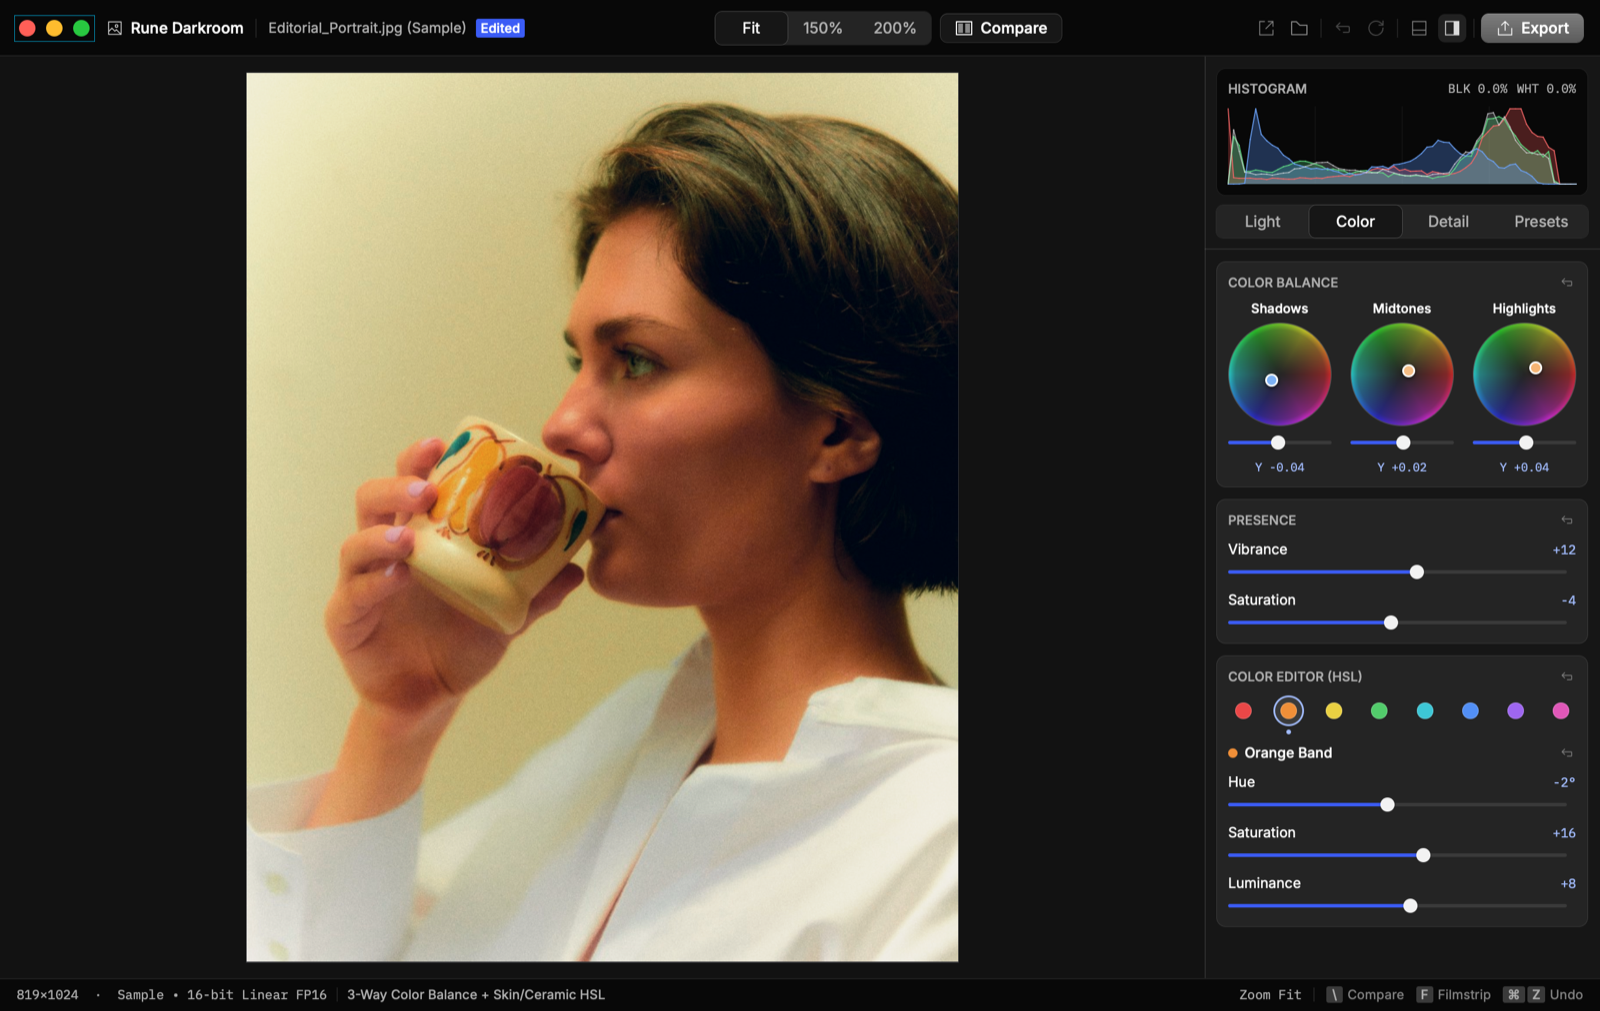
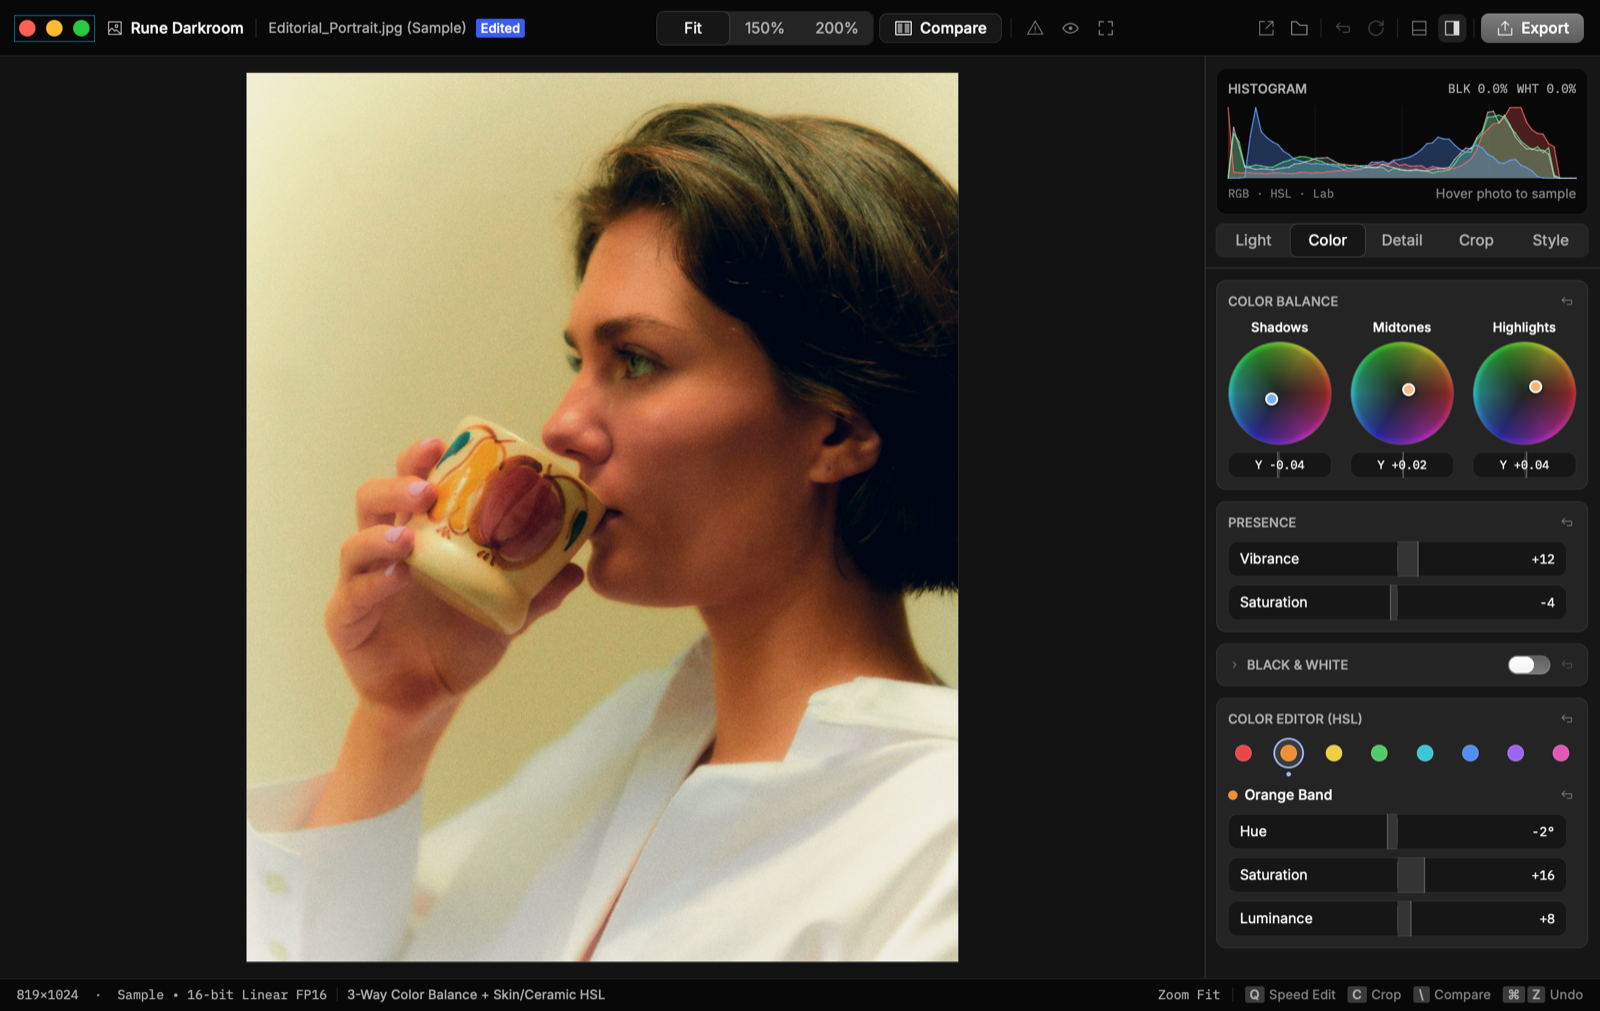
style(ui): replace inspector sliders with monochrome Scrubbable Capsule controls

diff --git a/crates/app/src/widgets.rs b/crates/app/src/widgets.rs
@@ -2,7 +2,8 @@
 //! centralized Anomaly OpenCode tokens (`crate::tokens`).
 
 use rune::{
-    Color, Cursor, Drag, El, LineCap, Phase, ScrollSpec, Shape, Tx, col, el, icon, row, text,
+    Color, Cursor, Drag, El, Key, KeyEvent, LineCap, Phase, ScrollSpec, Shape, Tx, col, el, icon,
+    row, text,
 };
 use rune_editor_core::{
     BlackAndWhiteParams, ColorWheel, CompositionGrid, CropAspect, DevelopRecipe, HISTOGRAM_BINS,
@@ -10,7 +11,7 @@ use rune_editor_core::{
 };
 use rune_kit::{
     Button, ButtonVariant, ControlSize, IconButton, IconButtonVariant, Kit, SegmentedControl,
-    Slider, Switch,
+    Switch,
 };
 use rune_theme_opencode::icons;
 
@@ -318,7 +319,165 @@ fn mini_auto_btn(
         .on_press_tx(on_press)
 }
 
-/// Unified OpenCode photographic slider with click-to-reset label and tabular mono readout.
+/// Maps a normalized `[0, 1]` scrub position into `min..=max` with a subtle
+/// magnetic zero detent around `reset_val` for effortless neutral resets.
+#[inline]
+fn capsule_value_from_norm(norm: f32, min: f32, max: f32, reset_val: f32) -> f32 {
+    let span = max - min;
+    if !span.is_finite() || span <= 0.0 {
+        return min;
+    }
+    let n = norm.clamp(0.0, 1.0);
+    let reset_norm = ((reset_val - min) / span).clamp(0.0, 1.0);
+    if reset_norm > 0.02 && reset_norm < 0.98 && (n - reset_norm).abs() < 0.016 {
+        return reset_val;
+    }
+    (min + n * span).clamp(min, max)
+}
+
+/// Core token-driven monochrome Scrubbable Capsule slider (no protruding knob;
+/// entire row is horizontally scrubbable, double-click resets to `reset_val`).
+#[allow(clippy::too_many_arguments)]
+fn capsule_slider_el(
+    k: &Kit,
+    key: String,
+    a11y_label: String,
+    height: f32,
+    width: f32,
+    value: f32,
+    range: std::ops::RangeInclusive<f32>,
+    value_fmt: String,
+    reset_val: f32,
+    content_row: El,
+    refresh_histogram: bool,
+    setter: impl Fn(&mut DevelopRecipe, f32) + Copy + 'static,
+) -> El {
+    let min = *range.start();
+    let max = *range.end();
+    let span = (max - min).max(1e-6);
+    let norm = ((value - min) / span).clamp(0.0, 1.0);
+    let reset_norm = ((reset_val - min) / span).clamp(0.0, 1.0);
+    let bipolar = reset_norm > 0.02 && reset_norm < 0.98;
+    let modified = (value - reset_val).abs() > (span * 0.0025);
+
+    // Bipolar sliders grow strictly from center `reset_norm` (clean empty capsule at 0);
+    // unipolar sliders grow cleanly from the left edge (`0.0`).
+    let origin_norm = if bipolar { reset_norm } else { 0.0 };
+    let fill_left = norm.min(origin_norm) * width;
+    let fill_w = ((norm - origin_norm).abs() * width).max(0.0);
+    let edge_x = (norm * width - size::CAPSULE_EDGE_W * 0.5)
+        .clamp(0.0, (width - size::CAPSULE_EDGE_W).max(0.0));
+    let kbd_step = (f64::from(span) / 40.0).max(1e-4);
+
+    let mut capsule = el()
+        .key(key)
+        .role("slider")
+        .label(a11y_label)
+        .help("Drag horizontally to adjust • Double-click to reset")
+        .range_value(f64::from(value), f64::from(min), f64::from(max))
+        .range_step(kbd_step)
+        .a11y_value(value_fmt)
+        .focusable(true)
+        .focus_ring(
+            border::FOCUS_RING,
+            border::FOCUS_OFFSET_TIGHT,
+            k.c.border_focus,
+        )
+        .cursor(Cursor::ResizeColumn)
+        .w(width)
+        .h(height)
+        .radius(k.radius.lg)
+        .fill(color::capsule_bg(k))
+        .hover(color::capsule_hover(k))
+        .border(border::HAIRLINE, k.c.border_base)
+        .clip_rounded(k.radius.lg);
+
+    // Subtle vertical center detent tick for bipolar sliders.
+    if bipolar {
+        let center_x = (reset_norm * width - size::CAPSULE_ZERO_TICK_W * 0.5).max(0.0);
+        capsule = capsule.child(
+            el().absolute(center_x, space::XS)
+                .size(size::CAPSULE_ZERO_TICK_W, (height - space::MD).max(2.0))
+                .fill(color::capsule_zero_tick(k))
+                .a11y_hidden(),
+        );
+    }
+
+    // Internal monochrome fill bar + crisp leading edge highlight when non-empty.
+    if fill_w >= 0.75 && (bipolar || modified) {
+        capsule = capsule
+            .child(
+                el().absolute(fill_left, 0.0)
+                    .size(fill_w, height)
+                    .fill(color::capsule_fill(k))
+                    .a11y_hidden(),
+            )
+            .child(
+                el().absolute(edge_x, 0.0)
+                    .size(size::CAPSULE_EDGE_W, height)
+                    .fill(color::capsule_edge(k))
+                    .a11y_hidden(),
+            );
+    }
+
+    let apply = move |s: &mut AppState, tx: &mut Tx, v: f32, done: bool| {
+        if refresh_histogram {
+            s.update_slider_tx(done, tx, |r| setter(r, v));
+        } else {
+            s.update_geometry_slider_tx(done, tx, |r| setter(r, v));
+        }
+    };
+
+    capsule
+        .child(content_row)
+        .on_drag(move |s: &mut AppState, d: &mut Drag, tx: &mut Tx| {
+            // Native AppKit double-click resets cleanly to default value.
+            if d.clicks >= 2 {
+                if d.phase == Phase::Down {
+                    apply(s, tx, reset_val, true);
+                }
+                return;
+            }
+            let w = d.w.max(1.0);
+            let next = capsule_value_from_norm(d.x / w, min, max, reset_val);
+            match d.phase {
+                Phase::Down | Phase::Move => apply(s, tx, next, false),
+                Phase::Up => apply(s, tx, next, true),
+            }
+        })
+        .on_key(move |s: &mut AppState, ev: &KeyEvent, tx: &mut Tx| {
+            let step = if ev.mods.shift {
+                span * 0.1
+            } else {
+                span * 0.025
+            };
+            match &ev.key {
+                Key::Left | Key::Down => {
+                    apply(s, tx, (value - step).clamp(min, max), true);
+                    true
+                }
+                Key::Right | Key::Up => {
+                    apply(s, tx, (value + step).clamp(min, max), true);
+                    true
+                }
+                Key::Backspace | Key::Delete => {
+                    apply(s, tx, reset_val, true);
+                    true
+                }
+                Key::Home => {
+                    apply(s, tx, min, true);
+                    true
+                }
+                Key::End => {
+                    apply(s, tx, max, true);
+                    true
+                }
+                _ => false,
+            }
+        })
+}
+
+/// Unified OpenCode Scrubbable Capsule photographic slider with tabular mono readout.
 #[allow(clippy::too_many_arguments)]
 fn develop_slider_inner(
     k: &Kit,
@@ -335,7 +494,7 @@ fn develop_slider_inner(
     let key_str = key.into();
     let modified = (value - reset_val).abs() > 0.005;
 
-    let mut label_row = row().items_center().gap(space::TIGHT);
+    let mut label_row = row().items_center().gap(space::SM);
     if let Some(col_dot) = dot_color {
         label_row = label_row.child(
             el().size(size::CHANNEL_DOT, size::CHANNEL_DOT)
@@ -344,57 +503,39 @@ fn develop_slider_inner(
                 .a11y_hidden(),
         );
     }
-    label_row = label_row.child(text(label).font(ty::control_label(k)).color(k.c.text_base));
+    label_row = label_row.child(text(label).font(ty::control_label(k)).color(if modified {
+        k.c.text_base
+    } else {
+        k.c.text_muted
+    }));
 
-    let header = row()
+    let content_row = row()
         .w_full()
-        .justify_between()
+        .h_full()
+        .px(space::LG)
         .items_center()
-        .child(
-            el().role("button")
-                .label(format!("Reset {label}"))
-                .help(format!("Click to reset {label}"))
-                .focusable(true)
-                .focus_ring(border::FOCUS_RING, border::FOCUS_OFFSET, k.c.border_focus)
-                .radius(k.radius.xs)
-                .cursor(Cursor::Pointer)
-                .child(label_row)
-                .on_press_tx(move |s: &mut AppState, tx| {
-                    if refresh_histogram {
-                        s.update_slider_tx(true, tx, |r| setter(r, reset_val));
-                    } else {
-                        s.update_geometry_slider_tx(true, tx, |r| setter(r, reset_val));
-                    }
-                }),
-        )
+        .justify_between()
+        .child(label_row)
         .child(text(&value_fmt).font(ty::mono_value(k)).color(if modified {
-            k.c.text_accent
+            k.c.text_base
         } else {
             k.c.text_muted
         }));
 
-    let slider = Slider::new(format!("{key_str}-slider"), value)
-        .range(range)
-        .label(label)
-        .hide_label()
-        .value_text(value_fmt)
-        .control_size(ControlSize::Mini)
-        .width(size::CARD_INNER_W)
-        .on_change_tx(move |s: &mut AppState, v: f32, done: bool, tx| {
-            if refresh_histogram {
-                s.update_slider_tx(done, tx, |r| setter(r, v));
-            } else {
-                s.update_geometry_slider_tx(done, tx, |r| setter(r, v));
-            }
-        })
-        .build(k);
-
-    col()
-        .key(key_str)
-        .w_full()
-        .gap(space::XXS)
-        .child(header)
-        .child(slider)
+    capsule_slider_el(
+        k,
+        key_str,
+        label.to_owned(),
+        size::CAPSULE_SLIDER_H,
+        size::CARD_INNER_W,
+        value,
+        range,
+        value_fmt,
+        reset_val,
+        content_row,
+        refresh_histogram,
+        setter,
+    )
 }
 
 #[allow(clippy::too_many_arguments)]
@@ -994,27 +1135,39 @@ fn single_color_wheel(s: &AppState, k: &Kit, slot: WheelSlot) -> El {
             });
         });
 
-    let luma_slider = Slider::new(format!("{}-luma", slot.key()), wheel.luma)
-        .range(-1.0..=1.0)
-        .label(format!("{} luminance", slot.title()))
-        .hide_label()
-        .value_text(format!("{:+.2}", wheel.luma))
-        .control_size(ControlSize::Mini)
-        .width(diameter)
-        .on_change_tx(move |s: &mut AppState, v: f32, done: bool, tx| {
-            s.update_slider_tx(done, tx, |r| {
-                slot.get_mut(r).luma = v;
-            });
-        })
-        .build(k);
+    let luma_fmt = format!("Y {:+.2}", wheel.luma);
+    let luma_modified = wheel.luma.abs() > 0.005;
+    let luma_content =
+        row()
+            .w_full()
+            .h_full()
+            .center()
+            .child(
+                text(&luma_fmt)
+                    .font(ty::mono_micro(k))
+                    .color(if luma_modified {
+                        k.c.text_base
+                    } else {
+                        k.c.text_muted
+                    }),
+            );
 
-    let luma_readout = text(format!("Y {:+.2}", wheel.luma))
-        .font(ty::mono_micro(k))
-        .color(if wheel.luma.abs() > 0.005 {
-            k.c.text_accent
-        } else {
-            k.c.text_faint
-        });
+    let luma_slider = capsule_slider_el(
+        k,
+        format!("{}-luma", slot.key()),
+        format!("{} luminance", slot.title()),
+        size::MINI_CAPSULE_SLIDER_H,
+        diameter,
+        wheel.luma,
+        -1.0..=1.0,
+        luma_fmt,
+        0.0,
+        luma_content,
+        true,
+        move |r, v| {
+            slot.get_mut(r).luma = v;
+        },
+    );
 
     col()
         .key(slot.key())
@@ -1024,7 +1177,6 @@ fn single_color_wheel(s: &AppState, k: &Kit, slot: WheelSlot) -> El {
         .child(title_btn)
         .child(disc)
         .child(luma_slider)
-        .child(luma_readout)
 }
 
 /// Capture One-style 3-Way Color Balance Wheels (Shadows / Midtones / Highlights).

diff --git a/crates/app/src/tokens.rs b/crates/app/src/tokens.rs
@@ -82,6 +82,10 @@ pub mod size {
     pub const PILL_H: f32 = 24.0;
     pub const ASPECT_PILL_H: f32 = 26.0;
     pub const ACTION_PILL_H: f32 = 28.0;
+    pub const CAPSULE_SLIDER_H: f32 = 30.0;
+    pub const MINI_CAPSULE_SLIDER_H: f32 = 22.0;
+    pub const CAPSULE_ZERO_TICK_W: f32 = 1.0;
+    pub const CAPSULE_EDGE_W: f32 = 1.0;
     pub const MINI_AUTO_BTN: f32 = 20.0;
 
     pub const CURVE_PT: f32 = 8.0;
@@ -247,6 +251,32 @@ pub mod color {
         } else {
             k.c.border_base
         }
+    }
+
+    // Scrubbable Capsule slider tokens (monochrome neutral OpenCode discipline)
+    #[inline]
+    pub fn capsule_bg(k: &Kit) -> Color {
+        k.c.bg_base
+    }
+
+    #[inline]
+    pub fn capsule_hover(k: &Kit) -> Color {
+        k.c.layer_02
+    }
+
+    #[inline]
+    pub fn capsule_fill(k: &Kit) -> Color {
+        k.c.white.alpha(0.13)
+    }
+
+    #[inline]
+    pub fn capsule_edge(k: &Kit) -> Color {
+        k.c.white.alpha(0.24)
+    }
+
+    #[inline]
+    pub fn capsule_zero_tick(k: &Kit) -> Color {
+        k.c.white.alpha(0.10)
     }
 
     #[inline]
